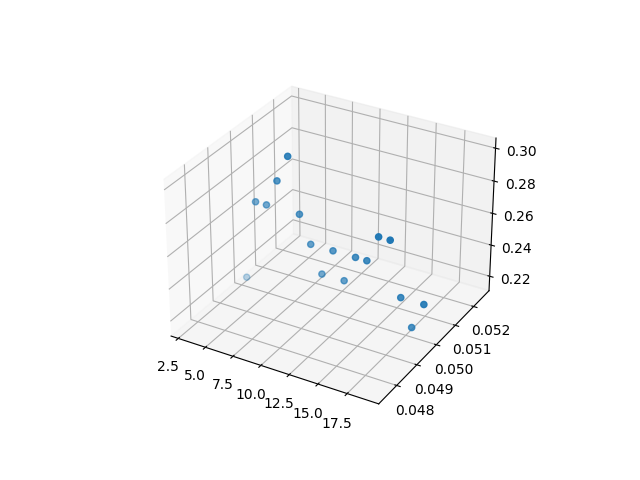
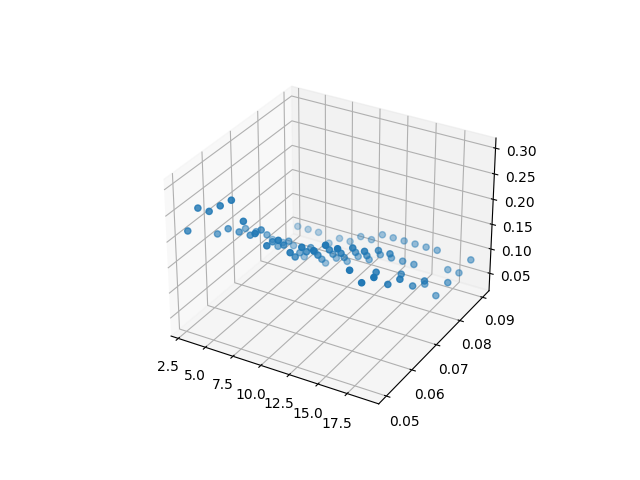
使用程序找启明星形态的股票。

diff --git a/run.py b/run.py
@@ -7,52 +7,72 @@ import time
 
 
 # 上传代码至服务器并运行
-def run(gpus, server):
+def run(gpus, user, server):
     # 上传本目录所有文件再执行指定文件
     if gpus == "all":
         # 清除服务器代码目录里所有源文件以及输出目录中的文件
-        s = "ssh ubuntu@" + server + " \"sudo rm -rf ~/code/*.py\""
+        s = "ssh " + user + "@" + server + " \"sudo rm -rf ~/code/*.py\""
+        # print("测试1", s)
         os.system(s)
-        s = "ssh ubuntu@" + server + " \"sudo rm -rf ~/code/output/*\""
+        s = "ssh " + user + "@" + server + " \"sudo rm -rf ~/code/output/*\""
+        # print("测试2", s)
         os.system(s)
         # 将本地目录所有文件上传至容器
-        s = "scp -r ./*.py ubuntu@" + server + ":~/code"
+        s = "scp -r ./*.py " + user + "@" + server + ":~/code"
+        # print("测试3", s)
         os.system(s)
         # 运行指定代码
         s = "ssh root@" + server +  " -p 2222 \"python /home/code/" + sys.argv[2] + "\""
+        # print("测试4", s)
         print("正在运行代码……\n")
         os.system(s)
         # 将代码目录里所有输出文件传回
-        s = "scp -r ubuntu@" + server + ":~/code/output/* ./output/"
+        s = "scp -r " + user +"@" + server + ":~/code/output/* ./output/"
+        # print("测试5", s)
         os.system(s)
     # 将所有结果文件传回
     elif gpus == "copy":
-        s = "scp -r ubuntu@" + server + ":~/code/output/* ./output/"
+        s = "scp -r " + user + "@" + server + ":~/code/output/* ./output/"
         os.system(s)
     # 上传指定文件并执行
     else:
         ## 清除服务器代码目录里所有源文件以及输出目录中的文件
-        s = "ssh ubuntu@" + server + " \"sudo rm -rf ~/code/*.py\""
+        s = "ssh " + user + "@" + server + " \"sudo rm -rf ~/code/*.py\""
         os.system(s)
-        s = "ssh ubuntu@" + server + " \"sudo rm -rf ~/code/output/*\""
+        s = "ssh " + user + "@" + server + " \"sudo rm -rf ~/code/output/*\""
         os.system(s)
         # 将本地目录指定文件上传至容器
-        s = "scp " + sys.argv[1] + " ubuntu@" + server + ":~/code"
+        s = "scp " + sys.argv[1] + " " + user + "@" + server + ":~/code"
         os.system(s)
         # 运行指定代码
         s = "ssh root@" + server +  " -p 2222 \"python /home/code/" + sys.argv[1] + "\""
         os.system(s)
         # 将代码目录里所有文件传回
-        s = "scp -r ubuntu@" + server + ":~/code/output/* ./output/"
+        s = "scp -r " + user +"@" + server + ":~/code/output/* ./output/"
         os.system(s)
-
-
-if __name__ == "__main__":
+        
+        
+# 主函数
+def main():
     gpus = sys.argv[1]
     # 读取服务器IP地址，自己编辑serverIP.txt去
     with open("serverIP.txt", "rt") as f:
-        server = f.read()
-    run(gpus, server)
+        server_list = f.readlines()
+    for s in server_list:
+        s = s.replace('\n', '').replace('\r', '')
+        # print(s)
+        if s[0] != "#":
+            res = s.split("@")
+            username = res[0]
+            server = res[1]
+            # print("测试", username, server)
+            # input("按任意键继续")
+            run(gpus, username, server)
+            return    
+
+
+if __name__ == "__main__":
+    main()
         
     
 # 工具函数，在上传到服务器上运行时改变当前目录

diff --git a/kline/kline.py b/kline/kline.py
@@ -55,7 +55,7 @@ def drawKLine(code):
     if os.path.exists(filename):
         # 画k线
         data = pd.read_csv(filename)
-        print(data.info())
+        # print(data.info())
         fig, ax = plt.subplots(1, 1, figsize=(8,3), dpi=200)
         candlestick2_ohlc(ax,
                 opens = data[ '开盘'].values,
@@ -85,17 +85,17 @@ def drawKLine(code):
         print("无股票数据")
         
         
-# 检测k线有无锤头形态
+# 检测k线有无method所定义的形态
 @run.change_dir
-def testChuizi(codes):
-    print("检测锤子形态")
+def test(codes, method):
+    print("检测k线形态")
     results = {}
     for code in codes:
         date = []
         filename = "./data/" + code + ".csv"
         if os.path.exists(filename):
             data = pd.read_csv(filename)
-            result = talib.CDLHAMMER(data.开盘.values, data.最高.values, data.最低.values, data.收盘.values)
+            result = method(data.开盘.values, data.最高.values, data.最低.values, data.收盘.values)
             pos = ()
             pos = list(np.nonzero(result))
             if len(pos[0]) != 0:
@@ -104,9 +104,9 @@ def testChuizi(codes):
     return results
     
     
-# 获取指定股票代码集合的k线符合锤子线的位置
-def getChuizi(codes):
-    results = testChuizi(codes)
+# 获取指定股票代码集合的k线符合method形态的位置
+def getPosition(codes, method):
+    results = test(codes, method)
     # 按日期降序排序，最近的日期排最前
     results = sorted(results.items(),key = lambda x:x[1],reverse = True)
     print(results)
@@ -116,6 +116,7 @@ def getChuizi(codes):
 if __name__ == "__main__":
     init()
     codes = getRecentData(refresh = False)
-    print(codes)
+    # print(codes)
     drawKLine(codes[0])
-    results = getChuizi(codes)
+    method = talib.CDLMORNINGDOJISTAR
+    results = getPosition(codes, method)

diff --git a/kline/backtest.py b/kline/backtest.py
@@ -160,7 +160,7 @@ def multiBacktest(codes, method):
     rates = []
     win_rates = []
     for gap in range(3, 20):
-        for rate in np.arange(0.05, 0.06, 0.01):
+        for rate in np.arange(0.05, 0.1, 0.01):
             win, fail, total = doTest(gap, rate, codes, method)
             win_rate = win/total
             gaps.append(gap)
@@ -204,5 +204,5 @@ if __name__ == "__main__":
     print(result)
     # doBacktest(codes, method)
     # backtest(codes)
-    multiBacktest(codes, talib.CDLBREAKAWAY)
+    multiBacktest(codes, talib.CDLPIERCING)
     
